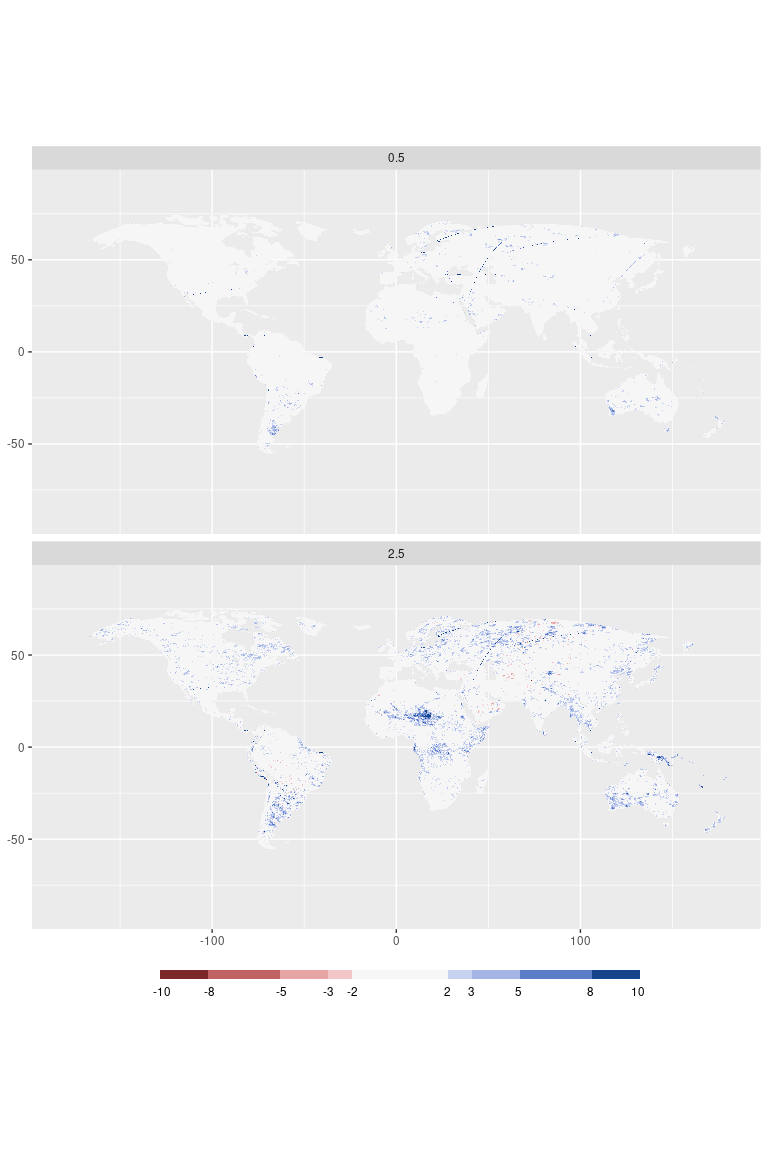
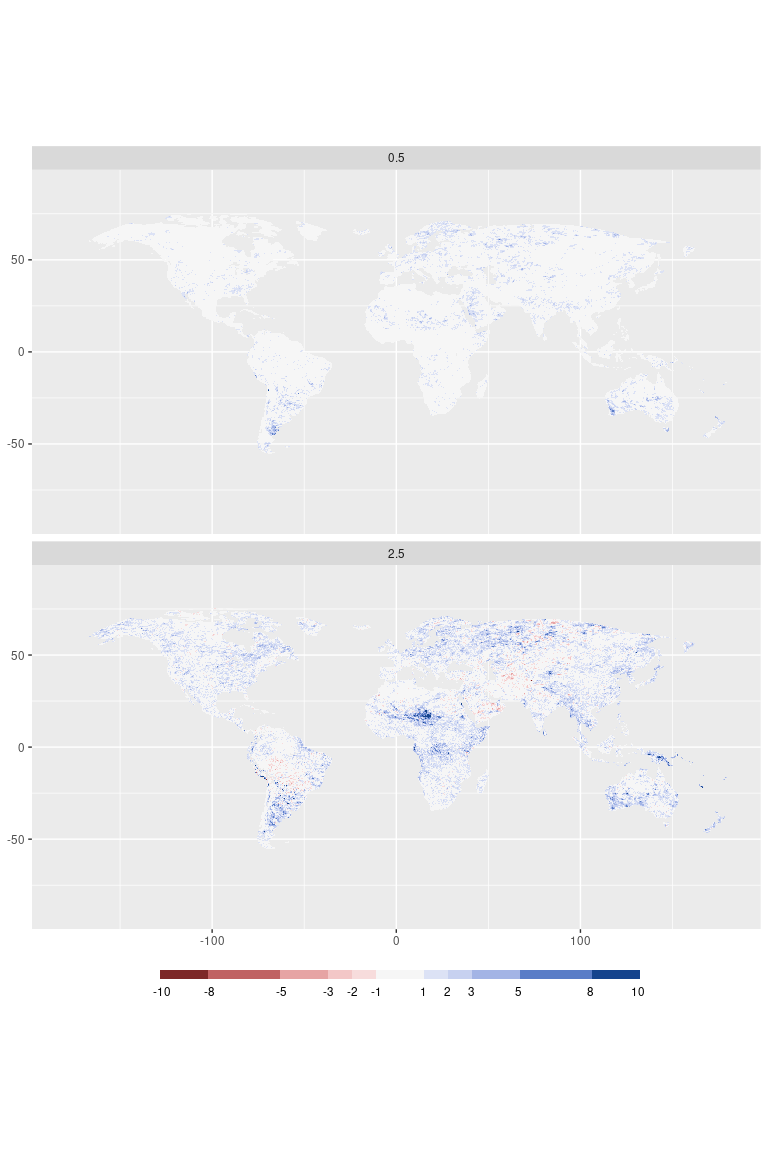
changes to final maps: water

diff --git a/reports/exhibits_water.md b/reports/exhibits_water.md
@@ -13,6 +13,8 @@ Carlos Dobler -
 
 ## Change in snowy days
 
+<img src="exhibits_water_files/figure-gfm/unnamed-chunk-3-1.png" width="100%" />
+
 ## Change in dry hot days
 
 <img src="exhibits_water_files/figure-gfm/unnamed-chunk-4-1.png" width="100%" />
